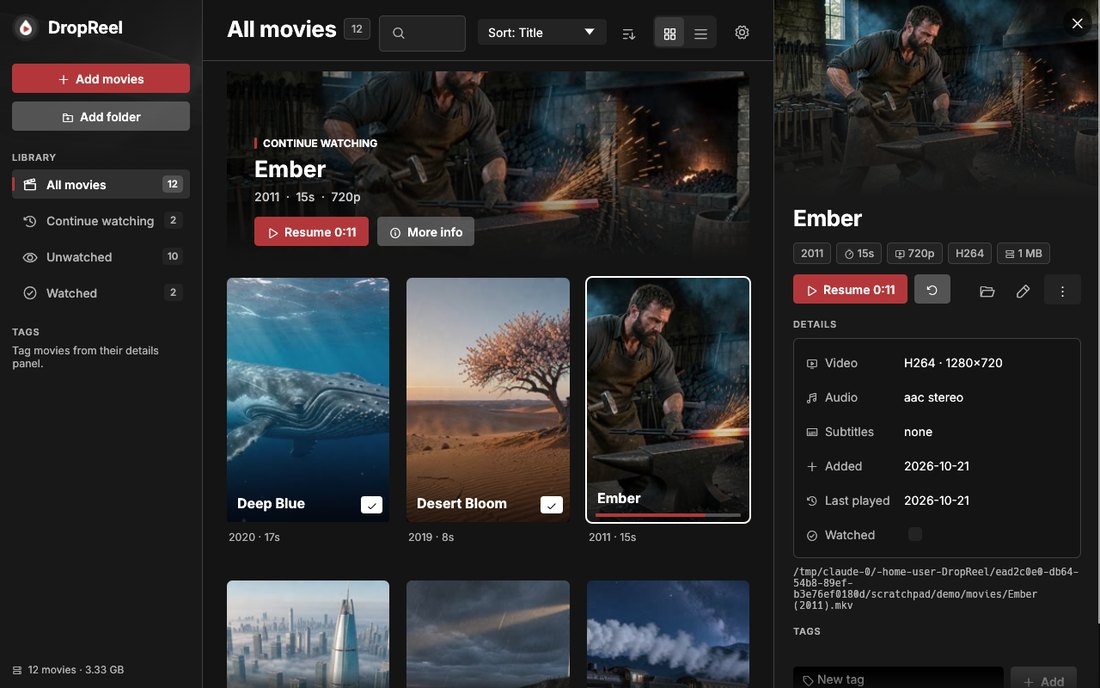
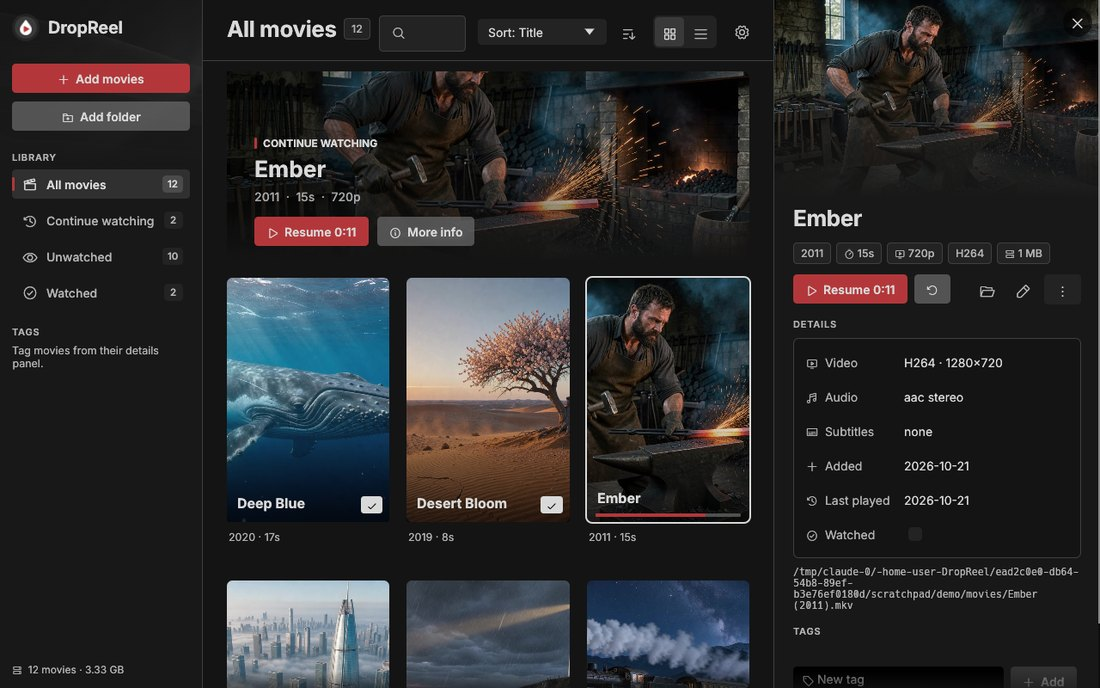
Soft "ash" white instead of pure white
Text, icons, focus outlines, white buttons and badges on the dark theme,
and everything painted over posters and video, now use ash (#D9D9D9)
instead of pure white; the 75% overlay text follows it. Primary buttons
get an `on_primary` colour (ash on dark, white on light). The light
theme keeps its white backgrounds, and the logo is unchanged.

Claude-Session: https://claude.ai/code/session_014CcLC17rZd5My8K96q63uv

diff --git a/src/app/theme.rs b/src/app/theme.rs
@@ -38,11 +38,13 @@ pub struct Palette {
     pub border: Color32,
     pub text: Color32,
     pub text_weak: Color32,
-    /// Focus rings, selected outlines and icons: white on dark, near-black on light.
+    /// Focus rings, selected outlines and icons: soft white on dark, near-black on light.
     pub accent: Color32,
     pub accent_soft: Color32,
     /// The red of primary buttons, progress and the current-shelf marker.
     pub primary: Color32,
+    /// Text and icons on `primary`.
+    pub on_primary: Color32,
     /// Secondary buttons: Netflix's translucent grey.
     pub secondary: Color32,
     pub warn: Color32,
@@ -51,9 +53,10 @@ pub struct Palette {
     pub dark: bool,
 }
 
-/// The colour scheme, after Netflix: a near-black page, slightly lighter panels, white text with
+/// The colour scheme, after Netflix: a near-black page, slightly lighter panels, soft white text with
 /// a soft grey for secondary text, and one brick red for primary actions, progress and the current
-/// selection. Warnings and success use white; red also marks errors and destructive actions.
+/// selection. Warnings and success use the text colour; red also marks errors and destructive
+/// actions.
 pub mod ramp {
     use super::Color32;
 
@@ -70,6 +73,8 @@ pub mod ramp {
     pub const N100: Color32 = Color32::from_gray(238);
     pub const N50: Color32 = Color32::from_gray(245);
     pub const WHITE: Color32 = Color32::WHITE;
+    /// The soft white of text and white controls on dark: easier on the eyes than pure white.
+    pub const ASH: Color32 = Color32::from_gray(217);
 
     /// A calm brick red, and a deeper one for red text on white.
     pub const RED: Color32 = Color32::from_rgb(179, 55, 58);
@@ -95,17 +100,18 @@ pub const DARK: Palette = Palette {
     hover: ramp::N750,
     input: ramp::N950,
     border: ramp::N700,
-    text: ramp::WHITE,
+    text: ramp::ASH,
     text_weak: ramp::N400,
-    accent: ramp::WHITE,
+    accent: ramp::ASH,
     // White at 10%, premultiplied.
     accent_soft: Color32::from_rgba_premultiplied(26, 26, 26, 26),
     primary: ramp::RED,
+    on_primary: ramp::ASH,
     // rgba(109, 109, 110, 0.7), premultiplied.
     secondary: Color32::from_rgba_premultiplied(76, 76, 77, 179),
-    warn: ramp::WHITE,
+    warn: ramp::ASH,
     danger: ramp::RED,
-    success: ramp::WHITE,
+    success: ramp::ASH,
     dark: true,
 };
 
@@ -122,6 +128,7 @@ pub const LIGHT: Palette = Palette {
     // Black at 7%, premultiplied.
     accent_soft: Color32::from_rgba_premultiplied(0, 0, 0, 18),
     primary: ramp::RED,
+    on_primary: ramp::WHITE,
     secondary: ramp::N100,
     warn: ramp::N900,
     danger: ramp::RED_DEEP,
@@ -134,9 +141,9 @@ pub const LIGHT: Palette = Palette {
 pub mod media {
     use super::Color32;
 
-    /// Text and icons.
-    pub const TEXT: Color32 = Color32::WHITE;
-    pub const TEXT_WEAK: Color32 = Color32::from_rgba_premultiplied(200, 200, 200, 200);
+    /// Text and icons: the soft white, and the same at 75%.
+    pub const TEXT: Color32 = super::ramp::ASH;
+    pub const TEXT_WEAK: Color32 = Color32::from_rgba_premultiplied(163, 163, 163, 191);
     /// Frosted fills, from barely there to clearly visible.
     pub const GLASS_FAINT: Color32 = Color32::from_rgba_premultiplied(14, 14, 14, 14);
     pub const GLASS: Color32 = Color32::from_rgba_premultiplied(24, 24, 24, 24);
@@ -148,8 +155,8 @@ pub mod media {
     pub const SCRIM_SOFT: Color32 = Color32::from_black_alpha(100);
     pub const SCRIM: Color32 = Color32::from_black_alpha(140);
     pub const SCRIM_STRONG: Color32 = Color32::from_black_alpha(180);
-    /// Badges: white with black content, or red with white.
-    pub const PILL: Color32 = Color32::WHITE;
+    /// Badges: soft white with black content, or red with soft white.
+    pub const PILL: Color32 = super::ramp::ASH;
     pub const ON_PILL: Color32 = super::ramp::N950;
     pub const DANGER: Color32 = super::ramp::RED;
     /// Progress on posters and in the player: red over a grey track.

diff --git a/src/app/widgets.rs b/src/app/widgets.rs
@@ -326,7 +326,7 @@ pub enum ButtonKind {
 
 fn kind_colors(p: &Palette, kind: ButtonKind) -> (Color32, Color32) {
     match kind {
-        ButtonKind::Primary => (p.primary, theme::ramp::WHITE),
+        ButtonKind::Primary => (p.primary, p.on_primary),
         ButtonKind::Secondary => (p.secondary, p.text),
         ButtonKind::Warn => (p.warn, p.bg),
         // Outlined, so a destructive button never looks like the primary one.
